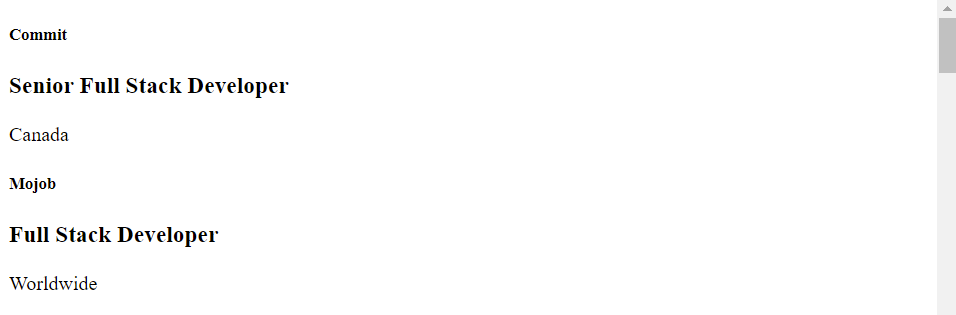
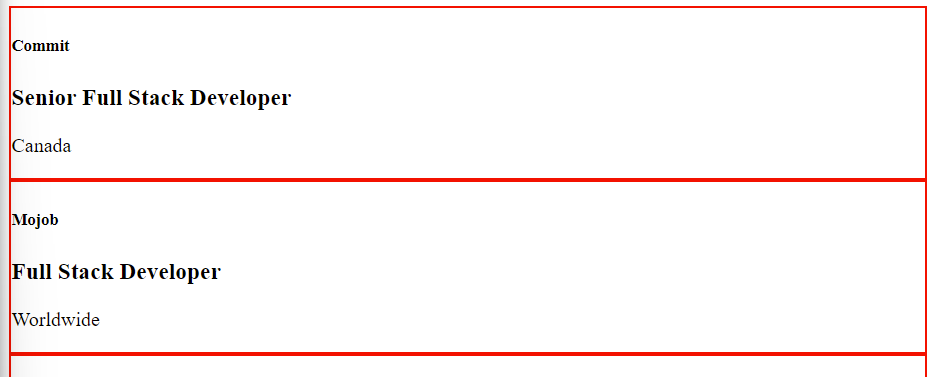
basic styling

Changed region(s): [[0.0, 0.0, 1.0, 1.0]]

diff --git a/index.js b/index.js
@@ -10,10 +10,11 @@ xhttp.onreadystatechange = function () {
     const container = document.getElementById('container');
     data.slice(1).forEach(function (row, index) {
       const rowDiv = document.createElement('div');
+      rowDiv.classList.add('row');
       rowDiv.innerHTML = `
-      <h5>${row.company}</h5>
-      <h3>${row.position}</h3>
-      <p>${row.location}</p>
+      <h5 class='company'>${row.company}</h5>
+      <h3 class= 'position'>${row.position}</h3>
+      <p class= 'location'>${row.location}</p>
       `;
       container.appendChild(rowDiv);
     });

diff --git a/style.css b/style.css
@@ -1,0 +1,20 @@
+.row {
+    border: 2px solid rgb(255, 0, 0);
+    margin: 10px 0;
+    padding: 0 20px;
+}
+
+.company {
+    font-size: 12px;
+    font-family: 'Courier New', Courier, monospace;
+}
+
+.position {
+
+}
+
+.location {
+    font-size: 10px;
+    border: 1px solid gray;
+    font-family: 'Courier New', Courier, monospace;
+}

diff --git a/README.md b/README.md
@@ -72,3 +72,5 @@ To display the data on the page I used the `appendChild` method.
 
 eg:
 ![Left side row data](screenshots/row-info-left.png)
+
+### Basic CSS Styling
